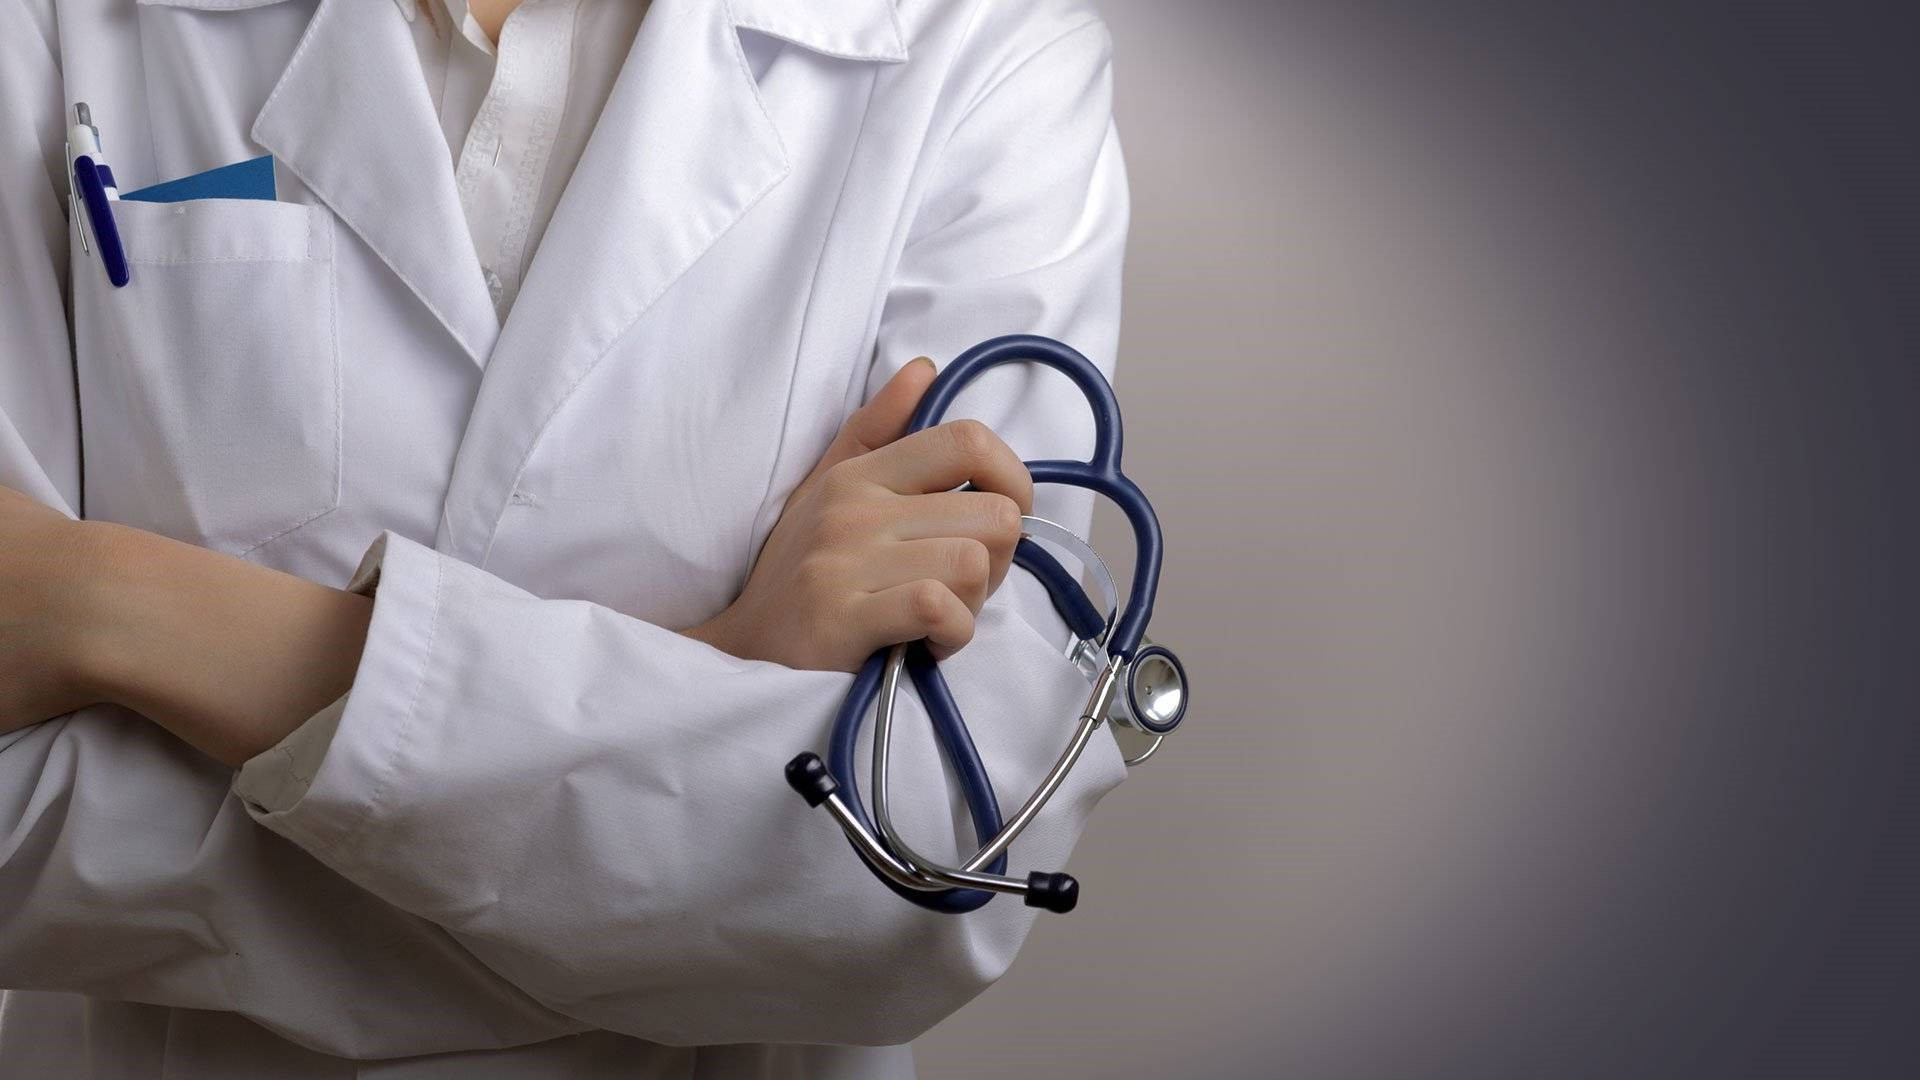
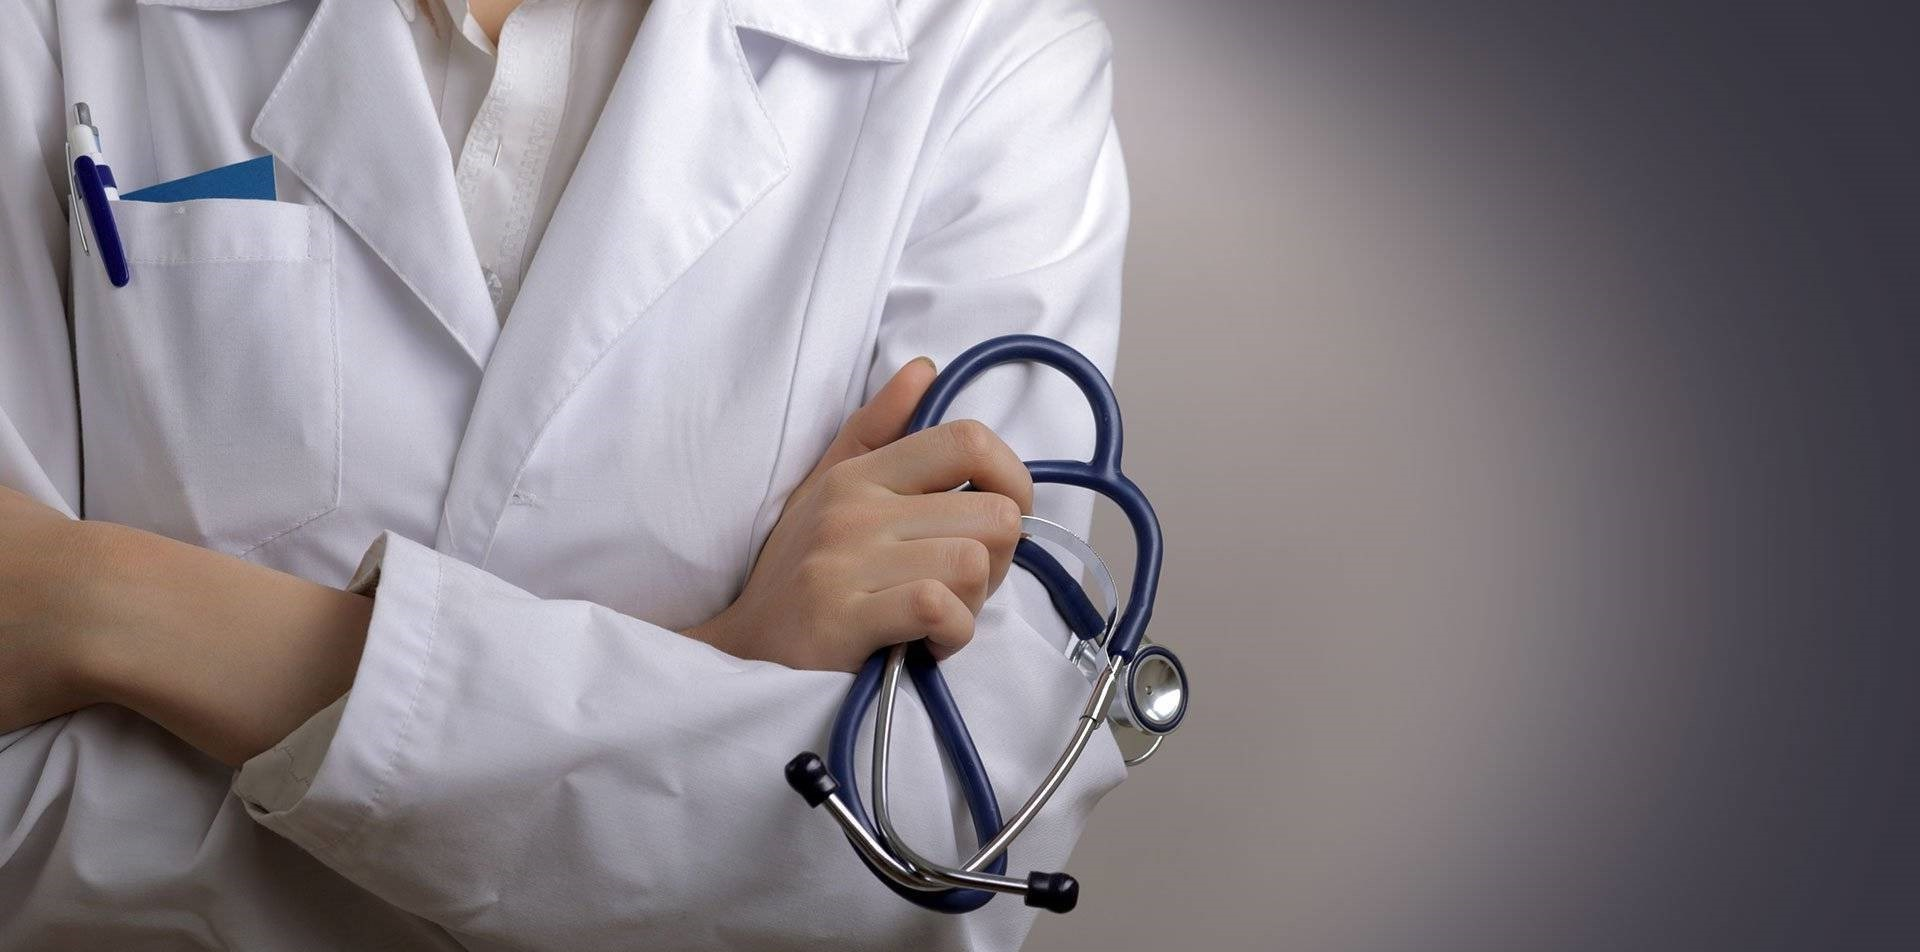
improved authorization page view

diff --git a/WebContent/WEB-INF/CSS/login-style.css b/WebContent/WEB-INF/CSS/login-style.css
@@ -8,18 +8,21 @@
 
 body {
 	background-color: #edeef0;
+	background-image: url("login-background.jpg");
+	width: 100%;
+	background-position: center;
+	background-repeat: no-repeat;
+	background-size: cover;
 }
 
 .login-form, .register-form {
-  margin-top: 75px;
   width: 360px;
   background-color: #F8F8FF;
-  height: 580px;
-  padding: 80px 40px;
+  height: 505px;
+  padding: 60px 40px;
   border: 1px solid #DCDCDC;
   border-radius: 5px;
-  margin-left: auto;
-  margin-right: auto;
+  margin: 100px 125px auto auto;
 }
 
 .register-form {
@@ -56,34 +59,73 @@ body {
 
 .logbtn {
   margin-top: 50px;
-  margin-bottom: 25px;
+  margin-bottom: 40px;
   border-radius: 5px;
   display: block;
   width: 100%;
   height: 50px;
   border: none;
-  background-color: #ffdc34;
+  background-color: #0f3057;
   background-size: 200%;
-  color: black;
+  color: white;
   outline: none;
   cursor: pointer;
 }
 
-@media (pointer: fine) and (hover: hover) {
-  .logbtn:hover{
-    background: linear-gradient(120deg,#f72464,#ffdc34);
-  }
+.logbtn:hover{
+	background: linear-gradient(120deg,#008891,#00587a,#0f3057);
 }
 
-.bottom_error_text, .bottom_text {
+.bottom-error-text, .bottom-text {
   text-align: center;
 }
 
-.redirect_href {
+.redirect-href {
   text-decoration: none;
-  color: #f72464;
+  color: #e94560;
 }
 
-.bottom_error_text {
+.bottom-error-text {
   margin-top: 20px;
+}
+
+.footer {
+	margin-top: 60px;
+	margin-right: 115px;
+	margin-left: auto;
+	width: 380px;
+	padding-top: 20px;
+	padding-bottom: 20px;
+	border-top: 1px solid #DCDCDC;
+	text-align: center;
+	display: grid;
+	grid-template-columns: repeat(13, 1fr);
+	grid-template-rows: repeat(2, 20px);
+}
+
+.admin-info {
+	grid-column: 1/14;
+	grid-row: 1;
+	color: black;
+	text-decoration: none;
+}
+
+.admin-link {
+	color: black;
+	text-decoration: none;
+	margin-left: 10px;
+	margin-right: 10px;
+}
+
+.hospital-logo {
+	margin-top: 5px;
+	grid-column: 3/12;
+	grid-row: 2;
+	font-family: gill sans mt;
+	font-size: 12px;
+	color: black;
+}
+
+.admin-link:hover, .admin-link:active {
+	color: #e94560;
 }
